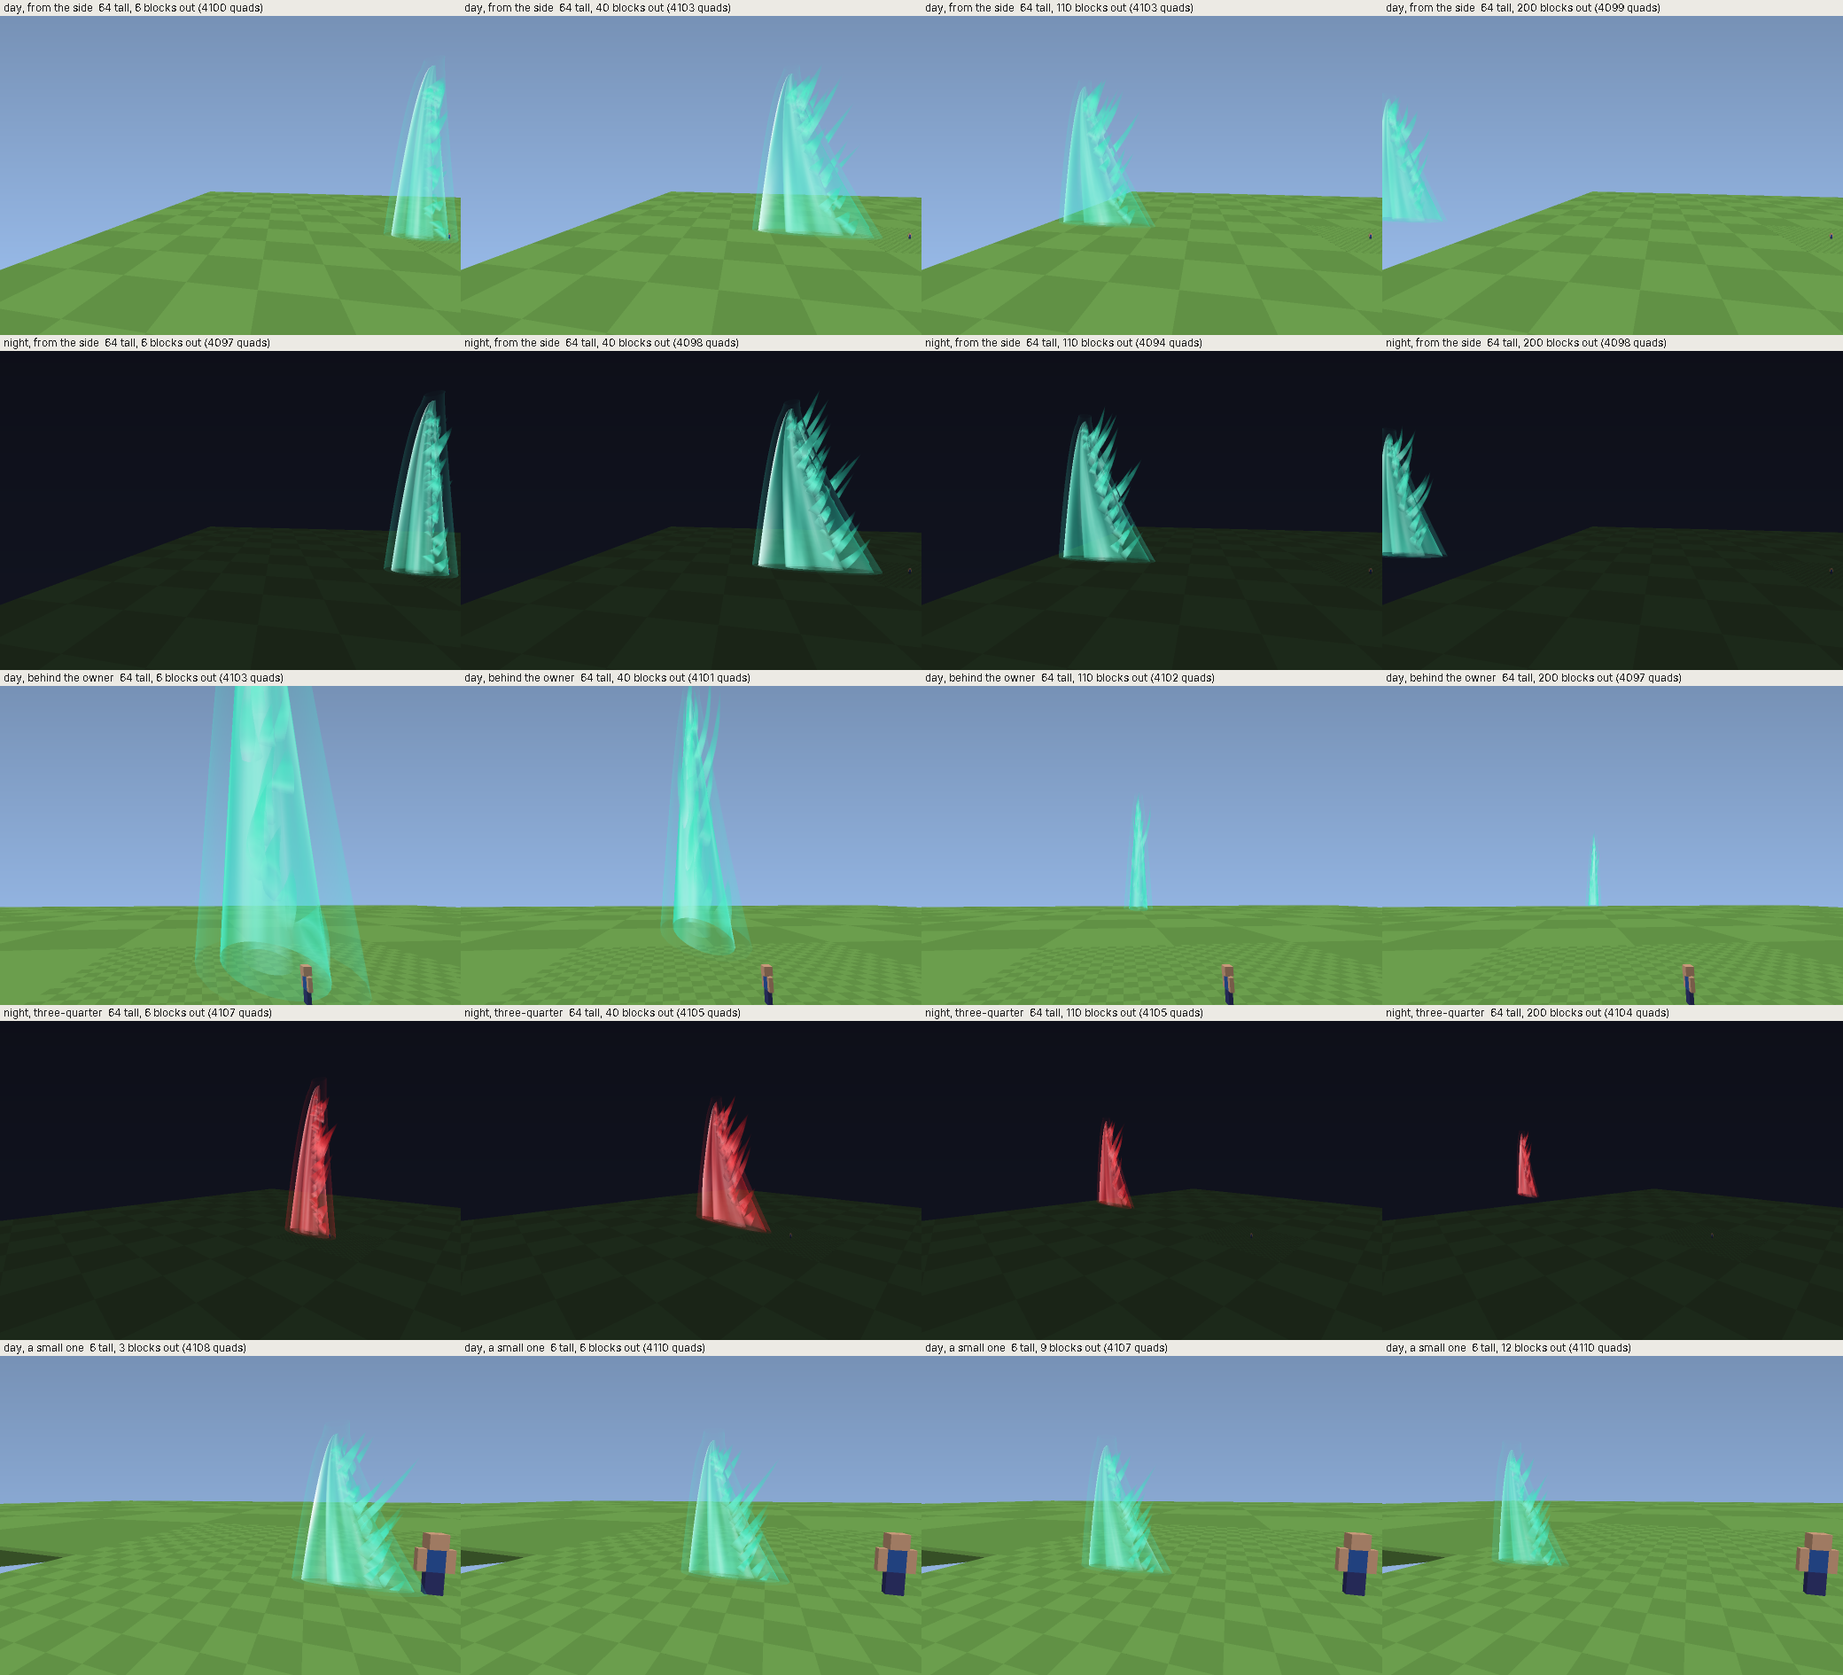
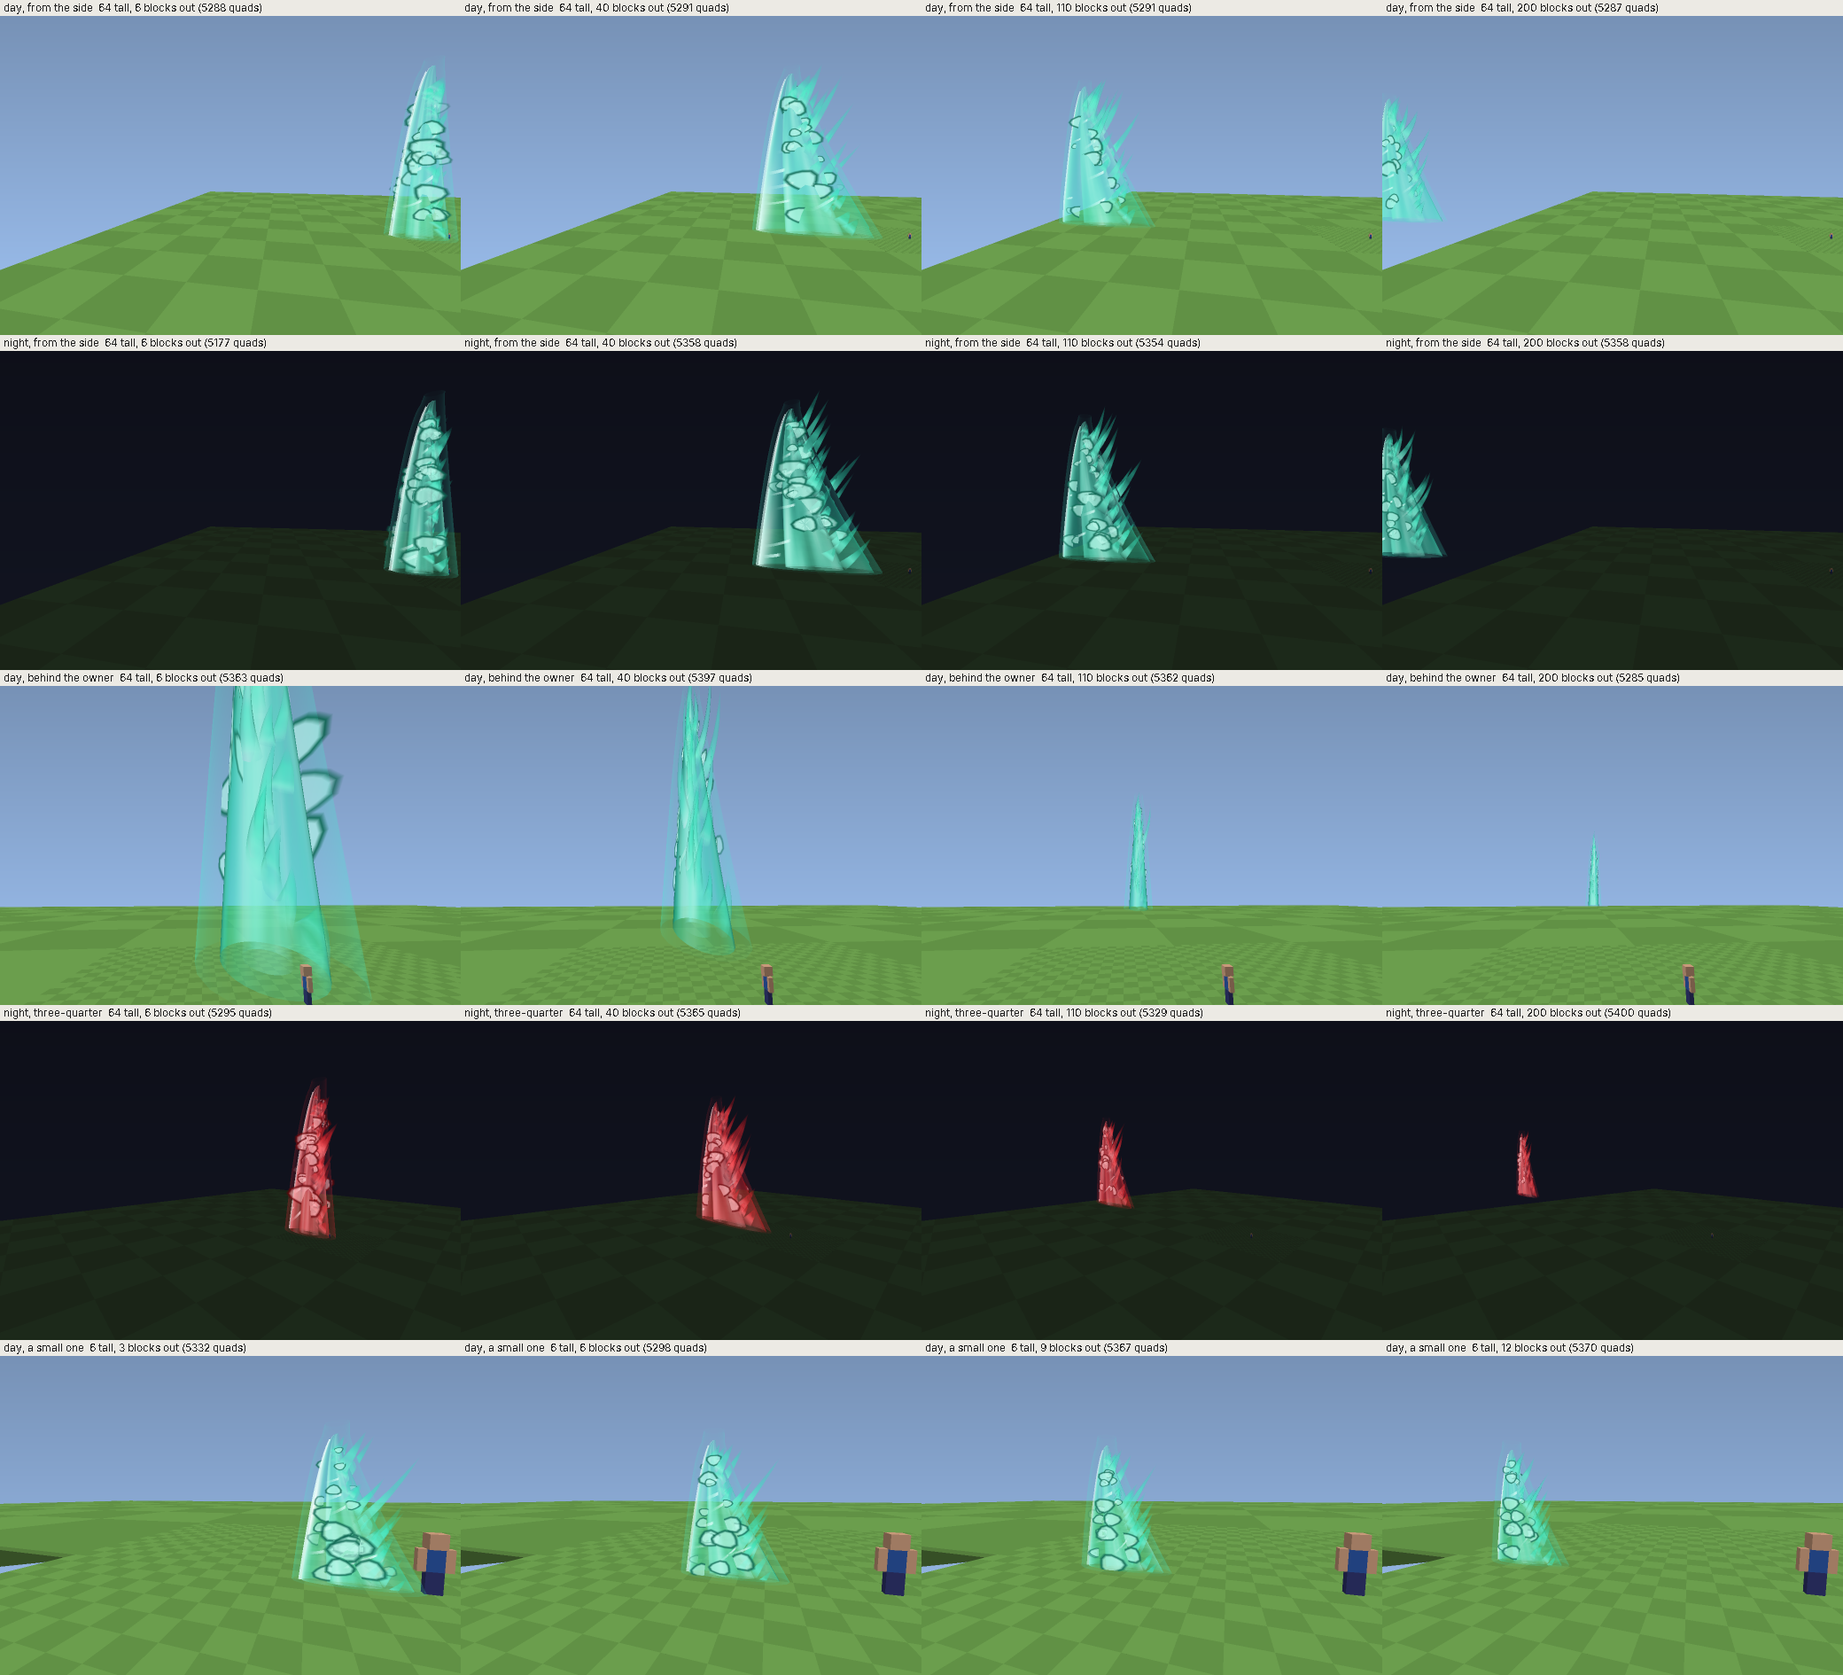
HexPiece 2.2.8: the Haki slash's foam and ink, after the owner's Marineford clip
- Foam cells: pale lumpy ovals ringed in a darker shade of the Ryou colour, born at the cutting edge, swelling as they drift back and
  up both flanks, popping before the tongues.
- Inked edges: the wave's silhouette and the tongues' torn edges darkened, as the anime draws them.
- Fix: the halo's near half is drawn last (it hid the streaks and the cutting edge: the glow batch writes depth).
- Renders, GIF, release notes, handoff (next-ai-2.2.8.md covers 2.2.7 and 2.2.8).

Claude-Session: https://claude.ai/code/session_01FUgDf5jWdKeUkrA2wEEbAH

diff --git a/src/main/java/com/hexhaki/piece/sword/SlashMesh.java b/src/main/java/com/hexhaki/piece/sword/SlashMesh.java
@@ -398,6 +398,7 @@ public final class SlashMesh {
             tongue(glow, f, k, colour, ticks, phase, alpha);
         }
         glow.layer = STREAKS;
+        foam(glow, f, seed, colour, ticks, alpha);
         streaks(glow, f, seed, colour, ticks, alpha);
         edgeLine(glow, f, colour, ticks, alpha);
         // the halo round the body: faint, most opaque at its edge
@@ -431,6 +432,10 @@ public final class SlashMesh {
 
     /** Rows round the body's section for the energy shells (more than the halo's: the flowing bands need the points). */
     static final int SHELL_RING = 32;
+    /** 2.2.7: how dark the inked edges are, as a share of the deep colour. */
+    static final double INK_SHADE = 0.42;
+    /** 2.2.7: foam cells on each flank of a full wave. */
+    static final int FOAM = 18;
     /** 2.2.6: the see-through layers, in the order they are drawn. */
     static final int HALO_FAR = 0;
     static final int SKIN_FAR = 1;
@@ -438,8 +443,12 @@ public final class SlashMesh {
     static final int TONGUES = 3;
     static final int CORE_NEAR = 4;
     static final int SKIN_NEAR = 5;
-    static final int HALO_NEAR = 6;
-    static final int STREAKS = 7;
+    static final int STREAKS = 6;
+    /**
+     * Last: the halo's near half is outside everything (2.2.7: drawn before the streaks, foam and cutting edge, it hid them: the batch
+     * writes depth wherever a quad is drawn, however faint).
+     */
+    static final int HALO_NEAR = 7;
 
     /**
      * 2.2.6: how bright the flowing light is at {@code u} (0 the leading edge .. 1 the back) and {@code v} (0 the trench .. 1 the peak),
@@ -511,10 +520,18 @@ public final class SlashMesh {
                 double k = clamp(white);
                 // the deep colour: saturated (its weakest channels pulled down a little), toward white where it burns hottest
                 double[] deep = saturated(colour);
-                double dr = deep[0];
-                double dg = deep[1];
-                double db = deep[2];
-                colours[at] = argb(Math.min(0.9, a) * alpha, dr + (1 - dr) * k, dg + (1 - dg) * k, db + (1 - db) * k);
+                double dr = deep[0] + (1 - deep[0]) * k;
+                double dg = deep[1] + (1 - deep[1]) * k;
+                double db = deep[2] + (1 - deep[2]) * k;
+                if (!core) {
+                    // 2.2.7 (the owner's Marineford clip): a darker line of the colour round the wave's edges, as the anime inks it
+                    double ink = Math.pow(1.0 - facing, 6.0) * (1.0 - edge);
+                    dr += (deep[0] * INK_SHADE - dr) * ink;
+                    dg += (deep[1] * INK_SHADE - dg) * ink;
+                    db += (deep[2] * INK_SHADE - db) * ink;
+                    a = Math.max(a, 0.82 * ink);
+                }
+                colours[at] = argb(Math.min(0.9, a) * alpha, dr, dg, db);
             }
         }
         for (int i = 0; i < ROWS; i++) {
@@ -565,10 +582,16 @@ public final class SlashMesh {
                 double a = 0.78 * Math.pow(1.0 - s, 0.85) * root * (0.35 + 0.65 * Math.pow(facing, 0.7)) * (0.6 + 0.5 * pulse);
                 double white = clamp(0.5 * (1.0 - s) * (1.0 - s) + 0.2 * pulse * (1.0 - s));
                 double[] deep = saturated(colour);
-                double dr = deep[0];
-                double dg = deep[1];
-                double db = deep[2];
-                c[i][j] = argb(Math.min(0.9, a) * alpha, dr + (1 - dr) * white, dg + (1 - dg) * white, db + (1 - db) * white);
+                double dr = deep[0] + (1 - deep[0]) * white;
+                double dg = deep[1] + (1 - deep[1]) * white;
+                double db = deep[2] + (1 - deep[2]) * white;
+                // 2.2.7: their torn edges inked darker, as the anime draws them
+                double ink = Math.pow(1.0 - facing, 4.0) * Math.min(1.0, s * 3.0);
+                dr += (deep[0] * INK_SHADE - dr) * ink;
+                dg += (deep[1] * INK_SHADE - dg) * ink;
+                db += (deep[2] * INK_SHADE - db) * ink;
+                a = Math.max(a, 0.7 * ink * Math.pow(1.0 - s, 0.6));
+                c[i][j] = argb(Math.min(0.9, a) * alpha, dr, dg, db);
             }
         }
         for (int i = 0; i < rows; i++) {
@@ -632,6 +655,81 @@ public final class SlashMesh {
                 }
             }
         }
+    }
+
+    /**
+     * 2.2.7 (the owner's Marineford clip: the wave full of foam, lighter blobs ringed in a darker shade of its colour): foam cells
+     * drifting back along each flank with the flow and rising toward the back, each born small at the leading edge, swelling, and
+     * bursting away before the tongues; an oval lying on the skin (stretched along the flow), a pale middle in a darker ring.
+     */
+    static void foam(Quads out, Frame f, long seed, double[] colour, double ticks, double alpha) {
+        Random random = new Random(seed * 131 + 17);
+        double[] deep = saturated(colour);
+        int ringR = 0;
+        int sides = 12;
+        for (int cell = 0; cell < FOAM * 2; cell++) {
+            int sign = cell % 2 == 0 ? 1 : -1;
+            double u0 = random.nextDouble();
+            double v0 = 0.05 + 0.75 * random.nextDouble();
+            double speed = 0.035 + 0.035 * random.nextDouble();
+            double size = f.height * (0.03 + 0.045 * random.nextDouble());
+            double rise = 0.12 + 0.12 * random.nextDouble();
+            double u = (u0 + ticks * speed) % 1.0;
+            double life = Math.sin(Math.PI * u);
+            if (life < 0.08) {
+                continue;
+            }
+            u = 0.06 + 0.86 * u;
+            double v = Math.min(0.9, v0 + rise * u);
+            double r = size * (0.5 + 0.5 * life) * (1.0 - 0.45 * v);
+            double front = f.front(v);
+            double back = f.back(v);
+            double mid = (front + back) / 2;
+            double rf = (front - back) / 2;
+            double cos = 1.0 - 2.0 * u;
+            double sin = Math.sqrt(Math.max(0.0, 1.0 - cos * cos));
+            double across = sign * (sin * f.across(v) * 1.02 + 0.015);
+            // the surface's two directions there: along the flow (round the section) and up
+            double[] centre = {mid + rf * cos, v * f.height, across};
+            double[] flowDir = {-rf * Math.sqrt(Math.max(0.0, 1.0 - cos * cos)) * 2.0, 0.0, -sign * f.across(v) * cos * 2.0};
+            double fl = Math.max(1.0E-9, Math.sqrt(flowDir[0] * flowDir[0] + flowDir[2] * flowDir[2]));
+            flowDir = new double[] {flowDir[0] / fl, 0.0, flowDir[2] / fl};
+            double[] upDir = {0.0, 1.0, 0.0};
+            double fade = Math.min(1.0, life * 2.4) * alpha;
+            int fill = argb(0.62 * fade, deep[0] + (1 - deep[0]) * 0.72, deep[1] + (1 - deep[1]) * 0.72, deep[2] + (1 - deep[2]) * 0.72);
+            int ring = argb(0.9 * fade, deep[0] * INK_SHADE, deep[1] * INK_SHADE, deep[2] * INK_SHADE);
+            int ringOut = argb(0.0, deep[0] * INK_SHADE, deep[1] * INK_SHADE, deep[2] * INK_SHADE);
+            double[][] inner = new double[sides][];
+            double[][] outer = new double[sides][];
+            double[][] halo = new double[sides][];
+            double wobble = random.nextDouble() * Math.PI * 2;
+            for (int k = 0; k < sides; k++) {
+                double a = Math.PI * 2.0 * k / sides;
+                // a little lumpy, as foam is
+                double lump = 1.0 + 0.12 * Math.sin(3 * a + wobble + ticks * 0.4);
+                double ca = Math.cos(a) * 1.5 * lump;
+                double sa = Math.sin(a) * lump;
+                inner[k] = onSkin(f, centre, flowDir, upDir, ca * r * 0.78, sa * r * 0.78, sign);
+                outer[k] = onSkin(f, centre, flowDir, upDir, ca * r, sa * r, sign);
+                halo[k] = onSkin(f, centre, flowDir, upDir, ca * r * 1.22, sa * r * 1.22, sign);
+            }
+            double[] middle = onSkin(f, centre, flowDir, upDir, 0.0, 0.0, sign);
+            for (int k = 0; k < sides; k++) {
+                int k1 = (k + 1) % sides;
+                out.add(middle, inner[k], inner[k1], inner[k1], fill, fill, fill, fill);
+                out.add(inner[k], outer[k], outer[k1], inner[k1], fill, ring, ring, fill);
+                out.add(outer[k], halo[k], halo[k1], outer[k1], ring, ringOut, ringOut, ring);
+            }
+            ringR++;
+        }
+    }
+
+    /** 2.2.7: a point on the skin near {@code centre} (ahead, up, side), {@code a} along the flow and {@code b} up, lifted off it a hair. */
+    static double[] onSkin(Frame f, double[] centre, double[] flowDir, double[] upDir, double a, double b, int sign) {
+        double fa = centre[0] + flowDir[0] * a;
+        double y = centre[1] + upDir[1] * b;
+        double s = centre[2] + flowDir[2] * a + sign * 0.02;
+        return f.at(fa, y, s);
     }
 
     /** 2.2.6: the cutting edge: a white-hot line up the wave's front, turned to the eye, flickering, thinning to the peak. */

diff --git a/build.py b/build.py
@@ -24,7 +24,7 @@ import sys
 import zipfile
 
 ROOT = Path(__file__).resolve().parent
-VERSION = "2.2.7"
+VERSION = "2.2.8"
 INPUT = ROOT / "input" / "hexhaki-2.1.0.jar"
[1 lines of base64/hex data omitted]
 # 2.2.7: the owner's two legendary blades (Gryphon with its scabbard, Yoru), never altered.

diff --git a/docs/handoff/next-ai-2.2.8.md b/docs/handoff/next-ai-2.2.8.md
@@ -1,7 +1,7 @@
-# HexPiece: handoff after 2.2.7
+# HexPiece: handoff after 2.2.8 (2.2.7: Gryphon and Yoru; 2.2.8: the slash's foam and ink)
 
 Read CLAUDE.md first. This note is the newest; next-ai-2.2.6.md covers 2.2.6 (the 3D inked lightning, needle tips, lightning off the
-body, the slash as light, the saya never black, the icon fix), next-ai-2.2.5.md and older the rest. The next version is 2.2.8. The
+body, the slash as light, the saya never black, the icon fix), next-ai-2.2.5.md and older the rest. The next version is 2.2.9. The
 work branch is `claude/nice-bell-gam7qf`. Nothing has ever been tested in game (only the owner can).
 
 ## The owner, this session (after 2.2.6, quoted)
@@ -49,14 +49,19 @@ work branch is `claude/nice-bell-gam7qf`. Nothing has ever been tested in game (
   half-ticks left (as the katana's own draws have).
 - Renders: `docs/images/yoru-draw.png`, `yoru-sheathe-charge.png`, `gryphon-hip.png`, `legend-icons.png`.
 
+## Released in 2.2.8 (the slash after the owner's Marineford clip)
+- `SlashMesh.foam`: 18 cells a flank (lumpy ovals lying on the skin, stretched along the flow: a pale fill, a ring of the deep colour
+  x `INK_SHADE` 0.42, a fading halo), born at the leading edge, swelling and drifting back (u 0.035..0.07 a tick) and up, popping
+  before the back; layer STREAKS. Inked edges: the skin's silhouette (`(1 - facing)^6`, not at the white leading edge) and the
+  tongues' grazing edges darkened to the deep colour x 0.42, denser.
+- Fix: `HALO_NEAR` is the last layer now (it was drawn before the streaks and the cutting edge, and debugQuads writes depth: they were
+  hidden behind it in 2.2.6/2.2.7). `STREAKS` 6, `HALO_NEAR` 7.
+
 ## Open: the owner's requests, in order
-1. **The slash after the Marineford reference** (the owner's `SwordBeam2.gif`): add foam cells (lighter blobs ringed in a darker shade of
-   the colour, drifting back along the flow and up into the tongues) and darker cel outlines on the torn edges (the skin's rim a
-   darker, denser shade); the Ryou colour stays.
-2. **Galaxy Fist becomes Iron Fist's** (the owner: "Galaxy fist becomes a move of Iron fist that unlocks when the user activates RYOU
+1. **Galaxy Fist becomes Iron Fist's** (the owner: "Galaxy fist becomes a move of Iron fist that unlocks when the user activates RYOU
    haki. ONLY for iron fist."): see next-ai-2.2.6.md item 2.
-3. **Fishman Karate rework**: see next-ai-2.2.6.md item 3 (Brick Fist, Water Bullet, Water Prison, water condensing out of the air).
-4. **Six Powers**: faster 3D air, Haki finger pistol shots (next-ai-2.2.6.md item 4).
+2. **Fishman Karate rework**: see next-ai-2.2.6.md item 3 (Brick Fist, Water Bullet, Water Prison, water condensing out of the air).
+3. **Six Powers**: faster 3D air, Haki finger pistol shots (next-ai-2.2.6.md item 4).
 
 ## Not verified (only the owner can test in game)
 - Everything of 2.2.7 in game: the blades' size and placement, the ropes on other skins (slim arms, 3D skin layers), Yoru's draw and

diff --git a/docs/handoff/next-prompt.md b/docs/handoff/next-prompt.md
@@ -1,4 +1,4 @@
-Continue HexPiece (repo HexB1tDev/HexPiece, branch claude/nice-bell-gam7qf). Read CLAUDE.md, then docs/handoff/next-ai-2.2.7.md (newest: Gryphon and Yoru), then docs/handoff/next-ai-2.2.6.md
+Continue HexPiece (repo HexB1tDev/HexPiece, branch claude/nice-bell-gam7qf). Read CLAUDE.md, then docs/handoff/next-ai-2.2.8.md (newest: Gryphon and Yoru, the slash's foam and ink), then docs/handoff/next-ai-2.2.6.md
 (newest: 2.2.6 is released: the Haki lightning as lit 3D tubes with black ink on every stroke and needle tips, tearing out of a shell
 round the player instead of the body, the Haki slash as flowing see-through light, the saya never black, the katana icons fixed; it
 lists the owner's open requests in order: Gryphon and Yoru from input/Yoru_Gryphon_Models_Textures_1.20.1.zip, the Galaxy Fist as Iron
@@ -6,5 +6,5 @@ Fist's Ryou move, the Fishman Karate rework (Brick Fist, Water Bullet, Water Pri
 fast air and Haki finger pistol shots), then next-ai-2.2.5.md, next-ai-2.2.4.md, next-ai-2.1.5.md (the first 3D lightning),
 next-ai-2.1.4.md (the Swordsman) and the older ones. HexGhoul (the owner's other mod: the finisher, the abilities panel, the
 self-repairing terrain and a ragdoll came from it) is at HexB1tDev/HexGhoul, branch claude/eager-ritchie-xni1ms. The next version is
-2.2.8. House rules: versions roll over at 9, keep only 5 releases, judge every render yourself (GIFs too: BoltPreview gifs/slashgif),
+2.2.9. House rules: versions roll over at 9, keep only 5 releases, judge every render yourself (GIFs too: BoltPreview gifs/slashgif),
 never claim in-game testing.

diff --git a/.github/release-notes-2.2.8.md b/.github/release-notes-2.2.8.md
@@ -1,0 +1,16 @@
+# HexPiece 2.2.8
+
+The Haki slash after your Marineford clip (the mint wave full of foam). Nothing here has been tested in game yet; the build's checks
+and tests pass, and the slash was rendered from the game's own code and judged (`docs/images/haki-slash-energy.png`, GIF
+`docs/images/haki-slash-flow.gif`).
+
+## The slash: foam and ink
+- **Foam cells**, like the clip: pale blobs ringed in a darker shade of your colour, born small at the cutting edge, swelling as they
+  drift back along both flanks and rise, and popping before the tongues.
+- **Inked edges**: the wave's silhouette and the tongues' torn edges get a darker line of your colour, as the anime draws it.
+- **Fixed**: in 2.2.6 the wave's outer glow was drawn before the streaks and the white-hot cutting edge, and hid most of them (the
+  game's glow layer blocks whatever is drawn after it behind it). They show now, and so does the foam.
+- Still in your Ryou colour, still see-through, still flowing; its Haki crackle stays inked.
+
+## Unchanged
+The network protocol is the same as 2.2.1.
